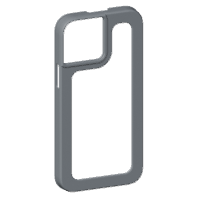
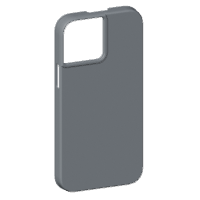
edge style

Changed region(s): [[0.33, 0.09, 0.66, 0.9]]

diff --git a/case.py b/case.py
@@ -15,6 +15,7 @@ Knobs, defaults in rules.json; a style in styles.json is a named knob set.
   CLOSED     button names covered, the wall relieved so it never presses them
   BACK_BAND  None full back | mm of back kept round the edge; the camera ring stands
              on an island swept out to the band, every inside corner filleted
+  RING       False: no camera ring or island, the camera sits in the open back
   PLATE      the band carries an inside rebate for a swap-in back plate, `plate`
   WALLS      "full" | "sides" top and bottom walls open | "corners" corners only
   MAGSAFE    None | "ring" pockets for the ADG 42.1 magnet array | "open" hole
@@ -345,6 +346,7 @@ def build(name="17e", style="case", **knobs):
     assert not LEATHER or (not RIBS and WALLS == "full" and not BUMPER and not MAGSAFE), \
         "the skin needs the whole outside, plain"
     assert not LEATHER or BACK - LEATHER >= 1.2, "core back under 1.2"
+    assert RING or (BACK_BAND is not None and not SLIDER and not LEATHER), "only a banded back leaves the camera open"
 
     SCRATCH = bpy.data.collections.new("case-scratch")
     bpy.context.scene.collection.children.link(SCRATCH)
@@ -569,10 +571,11 @@ def build(name="17e", style="case", **knobs):
     holes = []
     if BACK_BAND is not None:
         keep = box(-50, -L - 50, W + 50, 50) - Polygon(offset(ring, BACK_BAND))
-        island = Polygon(grow(opening, foot + ISLAND_W))
-        side = -W if island.centroid.x < W / 2 else W
-        for dx, dy in ((0, L), (side, 0)):
-            keep |= (island | translate(island, dx, dy)).convex_hull
+        if RING:
+            island = Polygon(grow(opening, foot + ISLAND_W))
+            side = -W if island.centroid.x < W / 2 else W
+            for dx, dy in ((0, L), (side, 0)):
+                keep |= (island | translate(island, dx, dy)).convex_hull
         if SLIDER:
             spine_bot = rail_bot - SPINE_W
             keep |= box(-50, spine_bot, W + 50, 50)
@@ -587,7 +590,7 @@ def build(name="17e", style="case", **knobs):
 
     # Ring round the opening, as high as the lens needs: a flat top RING_W wide, its
     # outside a round of its own height.
-    if h > 0.05:
+    if RING and h > 0.05:
         prof = [(Z_BACK, foot)] + [(Z_CASE_BACK - h * (1 - a), RING_W + h * (1 - v)) for a, v in quarter()]
         part += loft([[(x, y, z) for x, y in grow(opening, d)] for z, d in prof]) & body(Z_RING, PROUD)
     if LEATHER:
@@ -736,6 +739,8 @@ def build(name="17e", style="case", **knobs):
                        for lx, ly, d in p["lenses"] for t in np.linspace(0, 2 * math.pi, 180, endpoint=False)],
         "back glass": [(x, y, Z_BACK) for x in np.linspace(5, W - 5, 30) for y in np.linspace(-5, 5 - L, 60)],
     }
+    if not RING:
+        del glass["lens cover"]   # an open camera leaves the lens to the phone's own bump
     if not COUPON:
         GLASS[made["part"].name] = glass
     for n in p["notes"]:

diff --git a/previews/README.md b/previews/README.md
@@ -4,9 +4,9 @@ one section per phone, every style that builds, seen from the back | python case
 
 <a name="se-2-3"></a>se-2-3
 
-| base | case | slot | magsafe | sides | corners | frame | plateframe | plate | spine | slider | leather | cig | corner | ribs | ribcorner |
-|---|---|---|---|---|---|---|---|---|---|---|---|---|---|---|---|
-| ![base](se-2-3/base.png) | ![case](se-2-3/case.png) | ![slot](se-2-3/slot.png) | ![magsafe](se-2-3/magsafe.png) | ![sides](se-2-3/sides.png) | ![corners](se-2-3/corners.png) | ![frame](se-2-3/frame.png) | ![plateframe](se-2-3/plateframe.png) | ![plate](se-2-3/plate.png) | ![spine](se-2-3/spine.png) | ![slider](se-2-3/slider.png) | ![leather](se-2-3/leather.png) | ![cig](se-2-3/cig.png) | ![corner](se-2-3/corner.png) | ![ribs](se-2-3/ribs.png) | ![ribcorner](se-2-3/ribcorner.png) |
+| base | case | slot | magsafe | sides | corners | frame | edge | plateframe | plate | spine | slider | leather | cig | corner | ribs | ribcorner |
+|---|---|---|---|---|---|---|---|---|---|---|---|---|---|---|---|---|
+| ![base](se-2-3/base.png) | ![case](se-2-3/case.png) | ![slot](se-2-3/slot.png) | ![magsafe](se-2-3/magsafe.png) | ![sides](se-2-3/sides.png) | ![corners](se-2-3/corners.png) | ![frame](se-2-3/frame.png) | ![edge](se-2-3/edge.png) | ![plateframe](se-2-3/plateframe.png) | ![plate](se-2-3/plate.png) | ![spine](se-2-3/spine.png) | ![slider](se-2-3/slider.png) | ![leather](se-2-3/leather.png) | ![cig](se-2-3/cig.png) | ![corner](se-2-3/corner.png) | ![ribs](se-2-3/ribs.png) | ![ribcorner](se-2-3/ribcorner.png) |
 
 <a name="12-mini"></a>12-mini
 
@@ -136,27 +136,27 @@ one section per phone, every style that builds, seen from the back | python case
 
 <a name="17"></a>17
 
-| base | case | slot | magsafe | sides | corners | frame | plateframe | plate | leather | cig | corner | ribs | ribcorner | flip | cover |
-|---|---|---|---|---|---|---|---|---|---|---|---|---|---|---|---|
-| ![base](17/base.png) | ![case](17/case.png) | ![slot](17/slot.png) | ![magsafe](17/magsafe.png) | ![sides](17/sides.png) | ![corners](17/corners.png) | ![frame](17/frame.png) | ![plateframe](17/plateframe.png) | ![plate](17/plate.png) | ![leather](17/leather.png) | ![cig](17/cig.png) | ![corner](17/corner.png) | ![ribs](17/ribs.png) | ![ribcorner](17/ribcorner.png) | ![flip](17/flip.png) | ![cover](17/cover.png) |
+| base | case | slot | magsafe | sides | corners | frame | edge | plateframe | plate | leather | cig | corner | ribs | ribcorner | flip | cover |
+|---|---|---|---|---|---|---|---|---|---|---|---|---|---|---|---|---|
+| ![base](17/base.png) | ![case](17/case.png) | ![slot](17/slot.png) | ![magsafe](17/magsafe.png) | ![sides](17/sides.png) | ![corners](17/corners.png) | ![frame](17/frame.png) | ![edge](17/edge.png) | ![plateframe](17/plateframe.png) | ![plate](17/plate.png) | ![leather](17/leather.png) | ![cig](17/cig.png) | ![corner](17/corner.png) | ![ribs](17/ribs.png) | ![ribcorner](17/ribcorner.png) | ![flip](17/flip.png) | ![cover](17/cover.png) |
 
 <a name="17e"></a>17e
 
-| base | case | slot | magsafe | sides | corners | frame | plateframe | plate | spine | slider | leather | cig | corner | ribs | ribcorner | flip | cover |
-|---|---|---|---|---|---|---|---|---|---|---|---|---|---|---|---|---|---|
-| ![base](17e/base.png) | ![case](17e/case.png) | ![slot](17e/slot.png) | ![magsafe](17e/magsafe.png) | ![sides](17e/sides.png) | ![corners](17e/corners.png) | ![frame](17e/frame.png) | ![plateframe](17e/plateframe.png) | ![plate](17e/plate.png) | ![spine](17e/spine.png) | ![slider](17e/slider.png) | ![leather](17e/leather.png) | ![cig](17e/cig.png) | ![corner](17e/corner.png) | ![ribs](17e/ribs.png) | ![ribcorner](17e/ribcorner.png) | ![flip](17e/flip.png) | ![cover](17e/cover.png) |
+| base | case | slot | magsafe | sides | corners | frame | edge | plateframe | plate | spine | slider | leather | cig | corner | ribs | ribcorner | flip | cover |
+|---|---|---|---|---|---|---|---|---|---|---|---|---|---|---|---|---|---|---|
+| ![base](17e/base.png) | ![case](17e/case.png) | ![slot](17e/slot.png) | ![magsafe](17e/magsafe.png) | ![sides](17e/sides.png) | ![corners](17e/corners.png) | ![frame](17e/frame.png) | ![edge](17e/edge.png) | ![plateframe](17e/plateframe.png) | ![plate](17e/plate.png) | ![spine](17e/spine.png) | ![slider](17e/slider.png) | ![leather](17e/leather.png) | ![cig](17e/cig.png) | ![corner](17e/corner.png) | ![ribs](17e/ribs.png) | ![ribcorner](17e/ribcorner.png) | ![flip](17e/flip.png) | ![cover](17e/cover.png) |
 
 <a name="air"></a>air
 
-| base | case | slot | magsafe | sides | corners | frame | plateframe | plate | leather | cig | corner | ribs | ribcorner | flip | cover |
-|---|---|---|---|---|---|---|---|---|---|---|---|---|---|---|---|
-| ![base](air/base.png) | ![case](air/case.png) | ![slot](air/slot.png) | ![magsafe](air/magsafe.png) | ![sides](air/sides.png) | ![corners](air/corners.png) | ![frame](air/frame.png) | ![plateframe](air/plateframe.png) | ![plate](air/plate.png) | ![leather](air/leather.png) | ![cig](air/cig.png) | ![corner](air/corner.png) | ![ribs](air/ribs.png) | ![ribcorner](air/ribcorner.png) | ![flip](air/flip.png) | ![cover](air/cover.png) |
+| base | case | slot | magsafe | sides | corners | frame | edge | plateframe | plate | leather | cig | corner | ribs | ribcorner | flip | cover |
+|---|---|---|---|---|---|---|---|---|---|---|---|---|---|---|---|---|
+| ![base](air/base.png) | ![case](air/case.png) | ![slot](air/slot.png) | ![magsafe](air/magsafe.png) | ![sides](air/sides.png) | ![corners](air/corners.png) | ![frame](air/frame.png) | ![edge](air/edge.png) | ![plateframe](air/plateframe.png) | ![plate](air/plate.png) | ![leather](air/leather.png) | ![cig](air/cig.png) | ![corner](air/corner.png) | ![ribs](air/ribs.png) | ![ribcorner](air/ribcorner.png) | ![flip](air/flip.png) | ![cover](air/cover.png) |
 
 <a name="17-pro"></a>17-pro
 
-| base | case | slot | magsafe | sides | corners | frame | plateframe | plate | leather | cig | corner | ribs | ribcorner | flip | cover |
-|---|---|---|---|---|---|---|---|---|---|---|---|---|---|---|---|
-| ![base](17-pro/base.png) | ![case](17-pro/case.png) | ![slot](17-pro/slot.png) | ![magsafe](17-pro/magsafe.png) | ![sides](17-pro/sides.png) | ![corners](17-pro/corners.png) | ![frame](17-pro/frame.png) | ![plateframe](17-pro/plateframe.png) | ![plate](17-pro/plate.png) | ![leather](17-pro/leather.png) | ![cig](17-pro/cig.png) | ![corner](17-pro/corner.png) | ![ribs](17-pro/ribs.png) | ![ribcorner](17-pro/ribcorner.png) | ![flip](17-pro/flip.png) | ![cover](17-pro/cover.png) |
+| base | case | slot | magsafe | sides | corners | frame | edge | plateframe | plate | leather | cig | corner | ribs | ribcorner | flip | cover |
+|---|---|---|---|---|---|---|---|---|---|---|---|---|---|---|---|---|
+| ![base](17-pro/base.png) | ![case](17-pro/case.png) | ![slot](17-pro/slot.png) | ![magsafe](17-pro/magsafe.png) | ![sides](17-pro/sides.png) | ![corners](17-pro/corners.png) | ![frame](17-pro/frame.png) | ![edge](17-pro/edge.png) | ![plateframe](17-pro/plateframe.png) | ![plate](17-pro/plate.png) | ![leather](17-pro/leather.png) | ![cig](17-pro/cig.png) | ![corner](17-pro/corner.png) | ![ribs](17-pro/ribs.png) | ![ribcorner](17-pro/ribcorner.png) | ![flip](17-pro/flip.png) | ![cover](17-pro/cover.png) |
 
 <a name="17-pro-max"></a>17-pro-max
 

diff --git a/README.md b/README.md
@@ -25,11 +25,12 @@ styles
 - sides | top and bottom walls open between the corners
 - corners | held at the four corners, full back, walls open between them and rounded at the ends
 - frame | back kept as an 8 mm band round the edge, the camera ring on an island swept into it
+- edge | edge only: the walls and a 1.5 mm lip of back round the edge, the camera open
 - plateframe | frame with a rebate for the swap-in back plate
 - plate | 1 mm swap-in back plate for plateframe, dropped in from the phone side and held by the phone
 - spine | 1.5 mm band and a full-width strip across the fitted camera ring carrying slider rails
 - slider | lens cover for spine, printed flat on its outside face, slides down clear of the lens and flash keepouts
-- leather | printed core for a 0.6 mm leather skin glued over the back and walls: 0.95 mm walls, an 8 mm band of 1.4 mm back the skin bridges, 1.8 and 2.0 with the skin on; camera ring and a 1.5 mm rim band stand flush with the skin and cover its edges
+- leather | printed core for a 0.6 mm leather skin glued over the full back and walls: 0.95 mm walls, 1.4 mm back, 1.8 and 2.0 with the skin on; camera ring and a 1.5 mm rim band stand flush with the skin and cover its edges
 - cig | snap clip for one unlit cigarette along the right edge of the back; PETG softens near 80 C
 - corner | bottom-right corner only, 45 mm of each edge: squircle corner, USB-C edge and speaker group, a fit test that prints in minutes
 - ribs | full case, ribbed back: 1.2 mm between 1.2 mm ribs on a 10 mm grid, 2.0 at the ribs
@@ -42,6 +43,7 @@ knobs
 - KEYS | default [] | button names; names a phone lacks are dropped
 - CLOSED | default [] | button names, none shared with KEYS
 - BACK_BAND | default null | null (full back) or mm of back kept round the edge
+- RING | default true | false true
 - PLATE | default false | false true
 - WALLS | default "full" | "full" "sides" "corners"
 - MAGSAFE | default null | null "ring" "open"
@@ -72,6 +74,7 @@ rules | build skips a phone and style that break one, and says which
 - Ribs pocket the full back; the magnets need it solid.
 - The hinge knuckles stand on the left wall, so the flip cover needs it.
 - A leather skin needs a plain outside: full walls, no ribs, bumpers or MagSafe magnets.
+- Leaving the camera without a ring needs a banded back, and no slider or leather skin.
 - Phones whose sheet has no corner profile can't be built. Ruled out: 5s.
 - The slider can't cover a full-width camera plateau. Fits only se-2-3, 12, 16e, 17e.
 - The slider needs room for its right rail beside the camera. Fits only se-2-3, 12, 16e, 17e.
@@ -90,11 +93,11 @@ limits | from the apple accessory design guidelines and the phone sheets, checke
 
 checks
 - every build: closed mesh, one solid, glass gap >= 0.85 for front glass, lens cover, back glass
-- 460 of 540 phone x style build and pass | the rest are in rules.json invalid
+- 489 of 570 phone x style build and pass | the rest are in rules.json invalid
 
 previews | from the back, grid in previews/README.md
 - 5s | none, sheet has no corner profile
-- [se-2-3](previews/README.md#se-2-3) | 16 styles
+- [se-2-3](previews/README.md#se-2-3) | 17 styles
 - [12-mini](previews/README.md#12-mini) | 13 styles
 - [12](previews/README.md#12) | 16 styles
 - [12-pro](previews/README.md#12-pro) | 14 styles
@@ -116,10 +119,10 @@ previews | from the back, grid in previews/README.md
 - [16e](previews/README.md#16e) | 18 styles
 - [16-pro](previews/README.md#16-pro) | 16 styles
 - [16-pro-max](previews/README.md#16-pro-max) | 16 styles
-- [17](previews/README.md#17) | 16 styles
-- [17e](previews/README.md#17e) | 18 styles
-- [air](previews/README.md#air) | 16 styles
-- [17-pro](previews/README.md#17-pro) | 16 styles
+- [17](previews/README.md#17) | 17 styles
+- [17e](previews/README.md#17e) | 19 styles
+- [air](previews/README.md#air) | 17 styles
+- [17-pro](previews/README.md#17-pro) | 17 styles
 - [17-pro-max](previews/README.md#17-pro-max) | 16 styles
 - [18-pro](previews/README.md#18-pro) | 16 styles
 - [18-pro-max](previews/README.md#18-pro-max) | 16 styles
